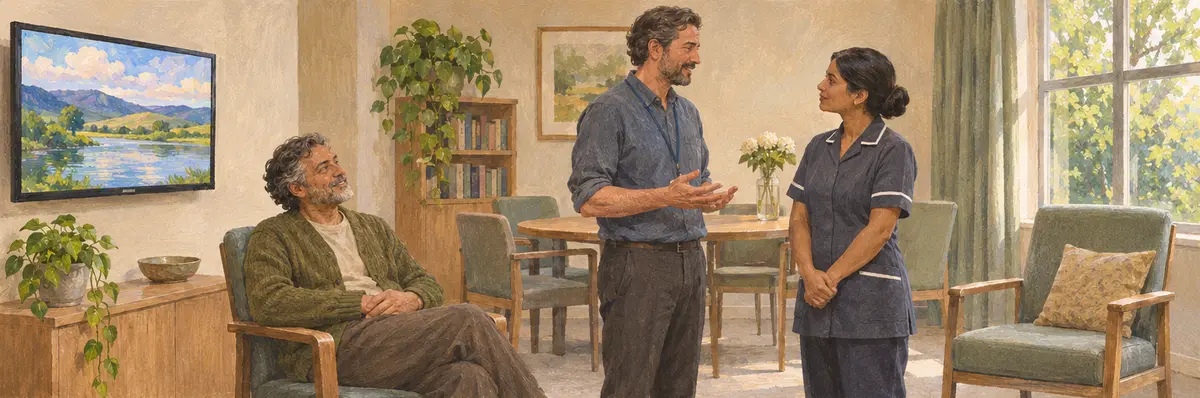
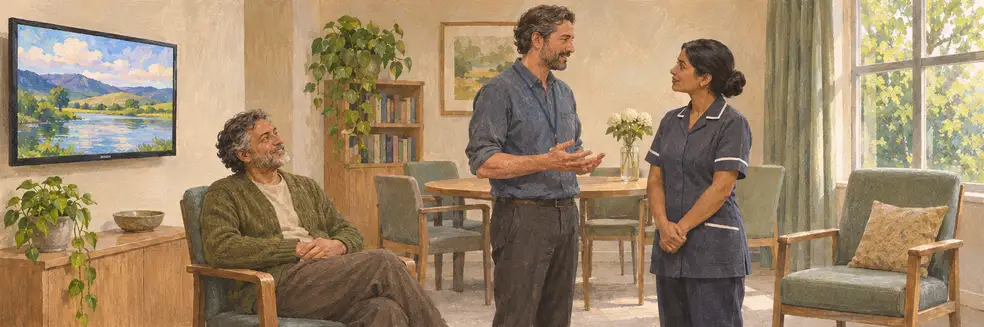
Align scene targets and reduce the offline illustration footprint

diff --git a/13_Faculty_Resources/_automation/site_build/frontdoor/frontdoor.css b/13_Faculty_Resources/_automation/site_build/frontdoor/frontdoor.css
@@ -3449,9 +3449,15 @@ html:has(.fd-reader--tool){scroll-padding-top:112px}
 .vp-note del,.vp-note ins{display:block}
 .vp-note del{color:var(--fd-text-mid)}
 .vp-note ins{text-decoration:none}
+/* The chart dates and source labels double as the selectable tabs on each record. */
+:is(#vp-workup,#vp-perinatal) .vp-card>summary{display:block;position:relative;padding-inline-end:var(--fd-space-9)}
+:is(#vp-workup,#vp-perinatal) .vp-card>summary::after{content:"+";position:absolute;inset:var(--fd-space-5) var(--fd-space-5) auto auto;font-family:monospace;color:var(--fd-teal-deep)}
+:is(#vp-workup,#vp-perinatal) .vp-card[open]>summary::after{content:"−"}
+#vp-workup .vp-card{border-inline-start:3px solid var(--fd-teal)}
+#vp-perinatal .vp-card>summary .vp-time{width:fit-content;padding:var(--fd-space-1) var(--fd-space-4);border-radius:var(--fd-radius-xs);background:var(--fd-olive-wash);color:var(--fd-olive-deep)}
 .vp-room{position:relative;isolation:isolate}
 .vp-room img,.vp-frames img{display:block;width:100%;height:auto}
-.vp-room-controls{position:absolute;inset:0;display:grid;grid-template-columns:repeat(3,minmax(0,1fr))}
+.vp-room-controls{position:absolute;inset:0;display:grid;grid-template-columns:30% 45% 25%}
 .vp-room-controls button{display:flex;align-items:flex-end;justify-content:center;width:100%;padding:var(--fd-space-3);border:0;border-radius:0;background:transparent;text-align:center;line-height:1.15}
 .vp-room-controls button:hover,.vp-room-controls button[aria-pressed=true]{background:transparent;box-shadow:inset 0 0 0 3px var(--fd-teal-deep)}
 .vp-room-controls button:focus-visible{outline-offset:-3px}

diff --git a/tests/smoke/front-door.spec.js b/tests/smoke/front-door.spec.js
@@ -2620,6 +2620,13 @@ test.describe('Interactive readings', () => {
       await expect(handoff.locator('p')).toBeVisible();
       await expect(handoff.locator('p')).toContainText(sample);
     }
+    const image = activity.locator('.vp-room img');
+    await image.scrollIntoViewIfNeeded();
+    const box = await image.boundingBox();
+    for (const [x, place] of [[0.10, 'tv'], [0.70, 'voices'], [0.91, 'chair']]) {
+      await page.mouse.click(box.x + x * box.width, box.y + 0.45 * box.height);
+      await expect(activity.locator('[data-vp-place="' + place + '"]')).toHaveAttribute('aria-pressed', 'true');
+    }
   });
 
   test('catatonia comparison requires both moments and clears the sample on close', async ({ page }) => {

diff --git a/04_Acute_and_Safety/Catatonia/catatonia_inpatient_teaching.md b/04_Acute_and_Safety/Catatonia/catatonia_inpatient_teaching.md
@@ -17,9 +17,9 @@
 <h3 id="vp-catatonia-title">What did you actually see?</h3>
 <p>A handoff describes Kit as “withdrawn today.” The nurse is already asking the resident to assess this change. Open each moment to hear what someone at the table observed.</p></header>
 <div class="vp-options vp-frames">
-<details class="vp-card" data-vp-frame><summary><img src="illustrations/kit-breakfast.webp" width="640" height="426" alt="Kit lifts a mug toward their mouth and turns toward the nurse."><span class="vp-time">08:10 · Breakfast</span><strong>At the table with Kit</strong></summary>
+<details class="vp-card" data-vp-frame><summary><img src="illustrations/kit-breakfast.webp" width="512" height="341" alt="Kit lifts a mug toward their mouth and turns toward the nurse."><span class="vp-time">08:10 · Breakfast</span><strong>At the table with Kit</strong></summary>
 <p class="vp-reply">The nurse says, “Kit lifted the mug, took a sip and set it down. When I asked about breakfast they said, ‘The coffee’s good.’”</p></details>
-<details class="vp-card" data-vp-frame><summary><img src="illustrations/kit-later.webp" width="640" height="426" alt="The mug is on the table. Kit looks straight ahead with their forearm held out."><span class="vp-time">09:00 · Same table</span><strong>Back at Kit’s side</strong></summary>
+<details class="vp-card" data-vp-frame><summary><img src="illustrations/kit-later.webp" width="512" height="341" alt="The mug is on the table. Kit looks straight ahead with their forearm held out."><span class="vp-time">09:00 · Same table</span><strong>Back at Kit’s side</strong></summary>
 <p class="vp-reply">You see Kit hold their forearm in the same position throughout your conversation with the nurse. You greet Kit and ask how they feel. You hear no spoken response.</p></details>
 </div>
 <p data-vp-compare-hint>Open both moments to practice calling the resident.</p>

diff --git a/04_Acute_and_Safety/Agitation_and_Restraint/agitation_restraint_inpatient_teaching.md b/04_Acute_and_Safety/Agitation_and_Restraint/agitation_restraint_inpatient_teaching.md
@@ -27,7 +27,7 @@ Climb in order, and document why you moved up.
 <h4>What would you change first?</h4>
 <p class="vp-intro">Choose something in the room. Each choice lets you try a different start to this conversation.</p>
 <div class="vp-room" role="group" aria-label="Choose a first change in the dayroom">
-<img src="illustrations/dayroom-first-change.webp" width="1200" height="398" alt="Jules is seated between the television on the left and two staff in conversation. An empty chair sits by the window on the right.">
+<img src="illustrations/dayroom-first-change.webp" width="984" height="327" alt="Jules is seated between the television on the left and two staff in conversation. An empty chair sits by the window on the right.">
 <div class="vp-room-controls">
 <button type="button" data-vp-place="tv" aria-pressed="false" aria-controls="vp-tv"><span class="vp-before">Lower TV volume</span><span class="vp-changed">TV turned down</span></button>
 <button type="button" data-vp-place="voices" aria-pressed="false" aria-controls="vp-voices"><span class="vp-before">One speaker</span><span class="vp-changed">Nurse speaking</span></button>
